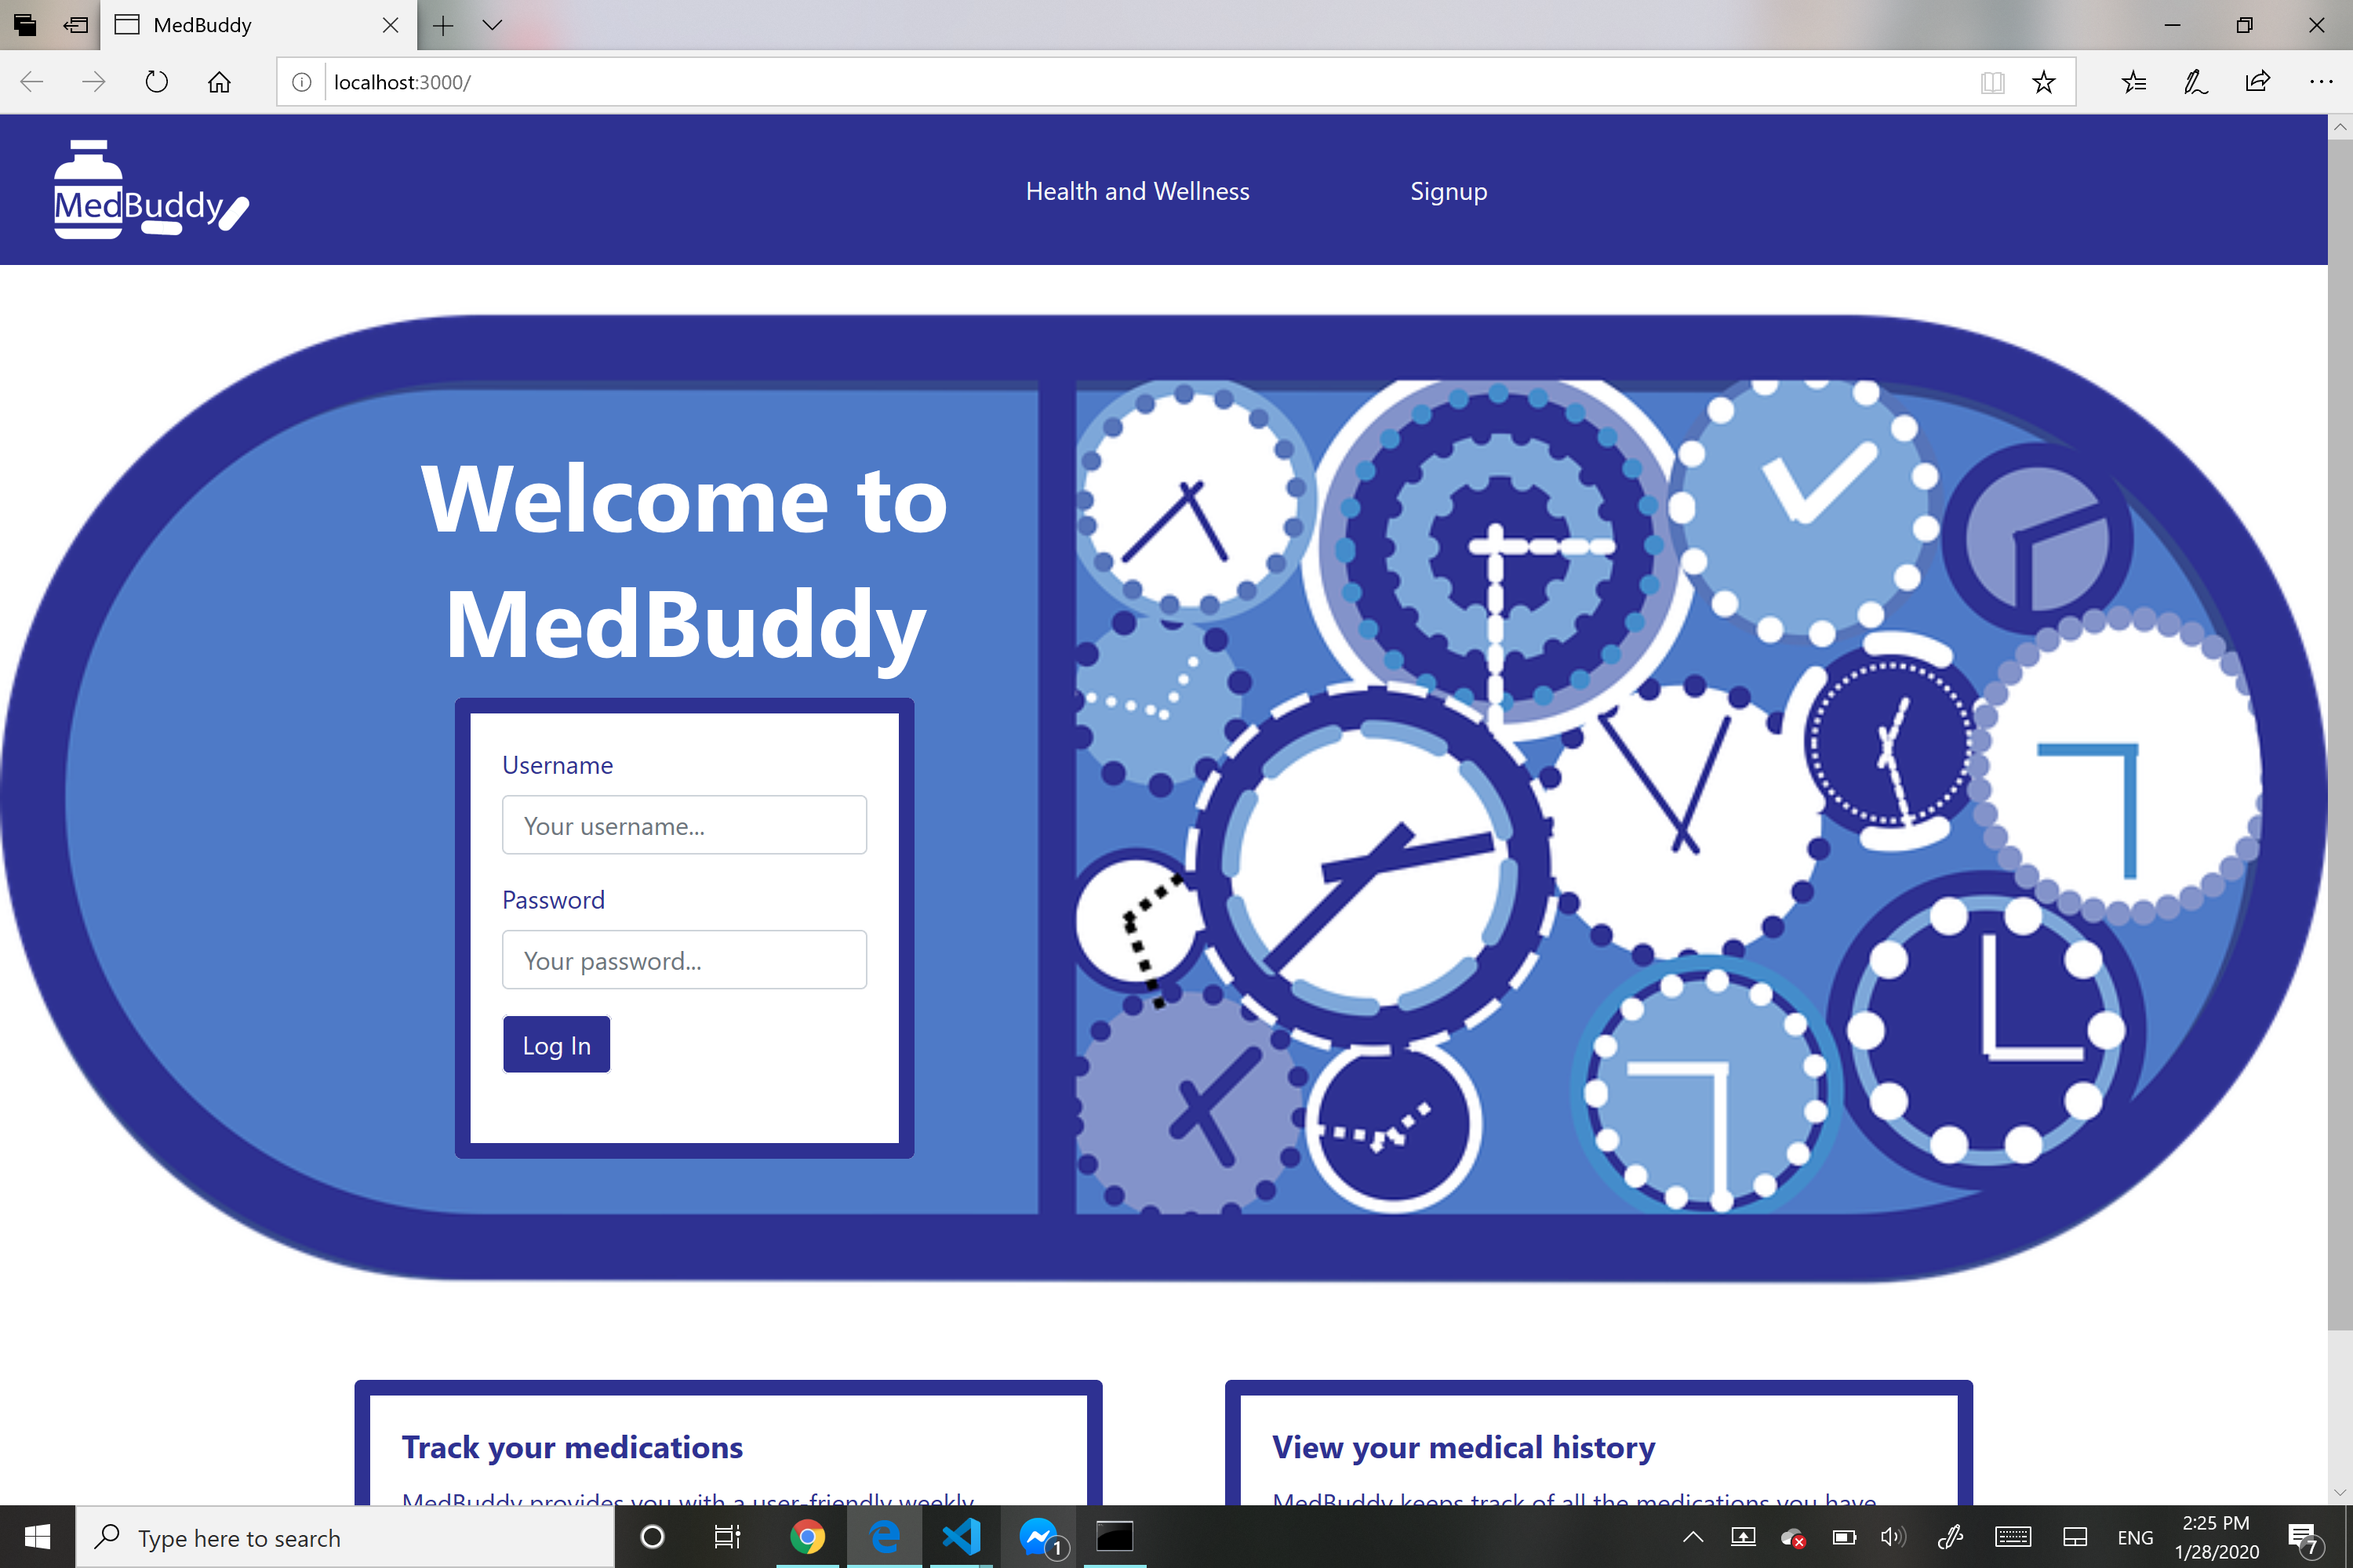
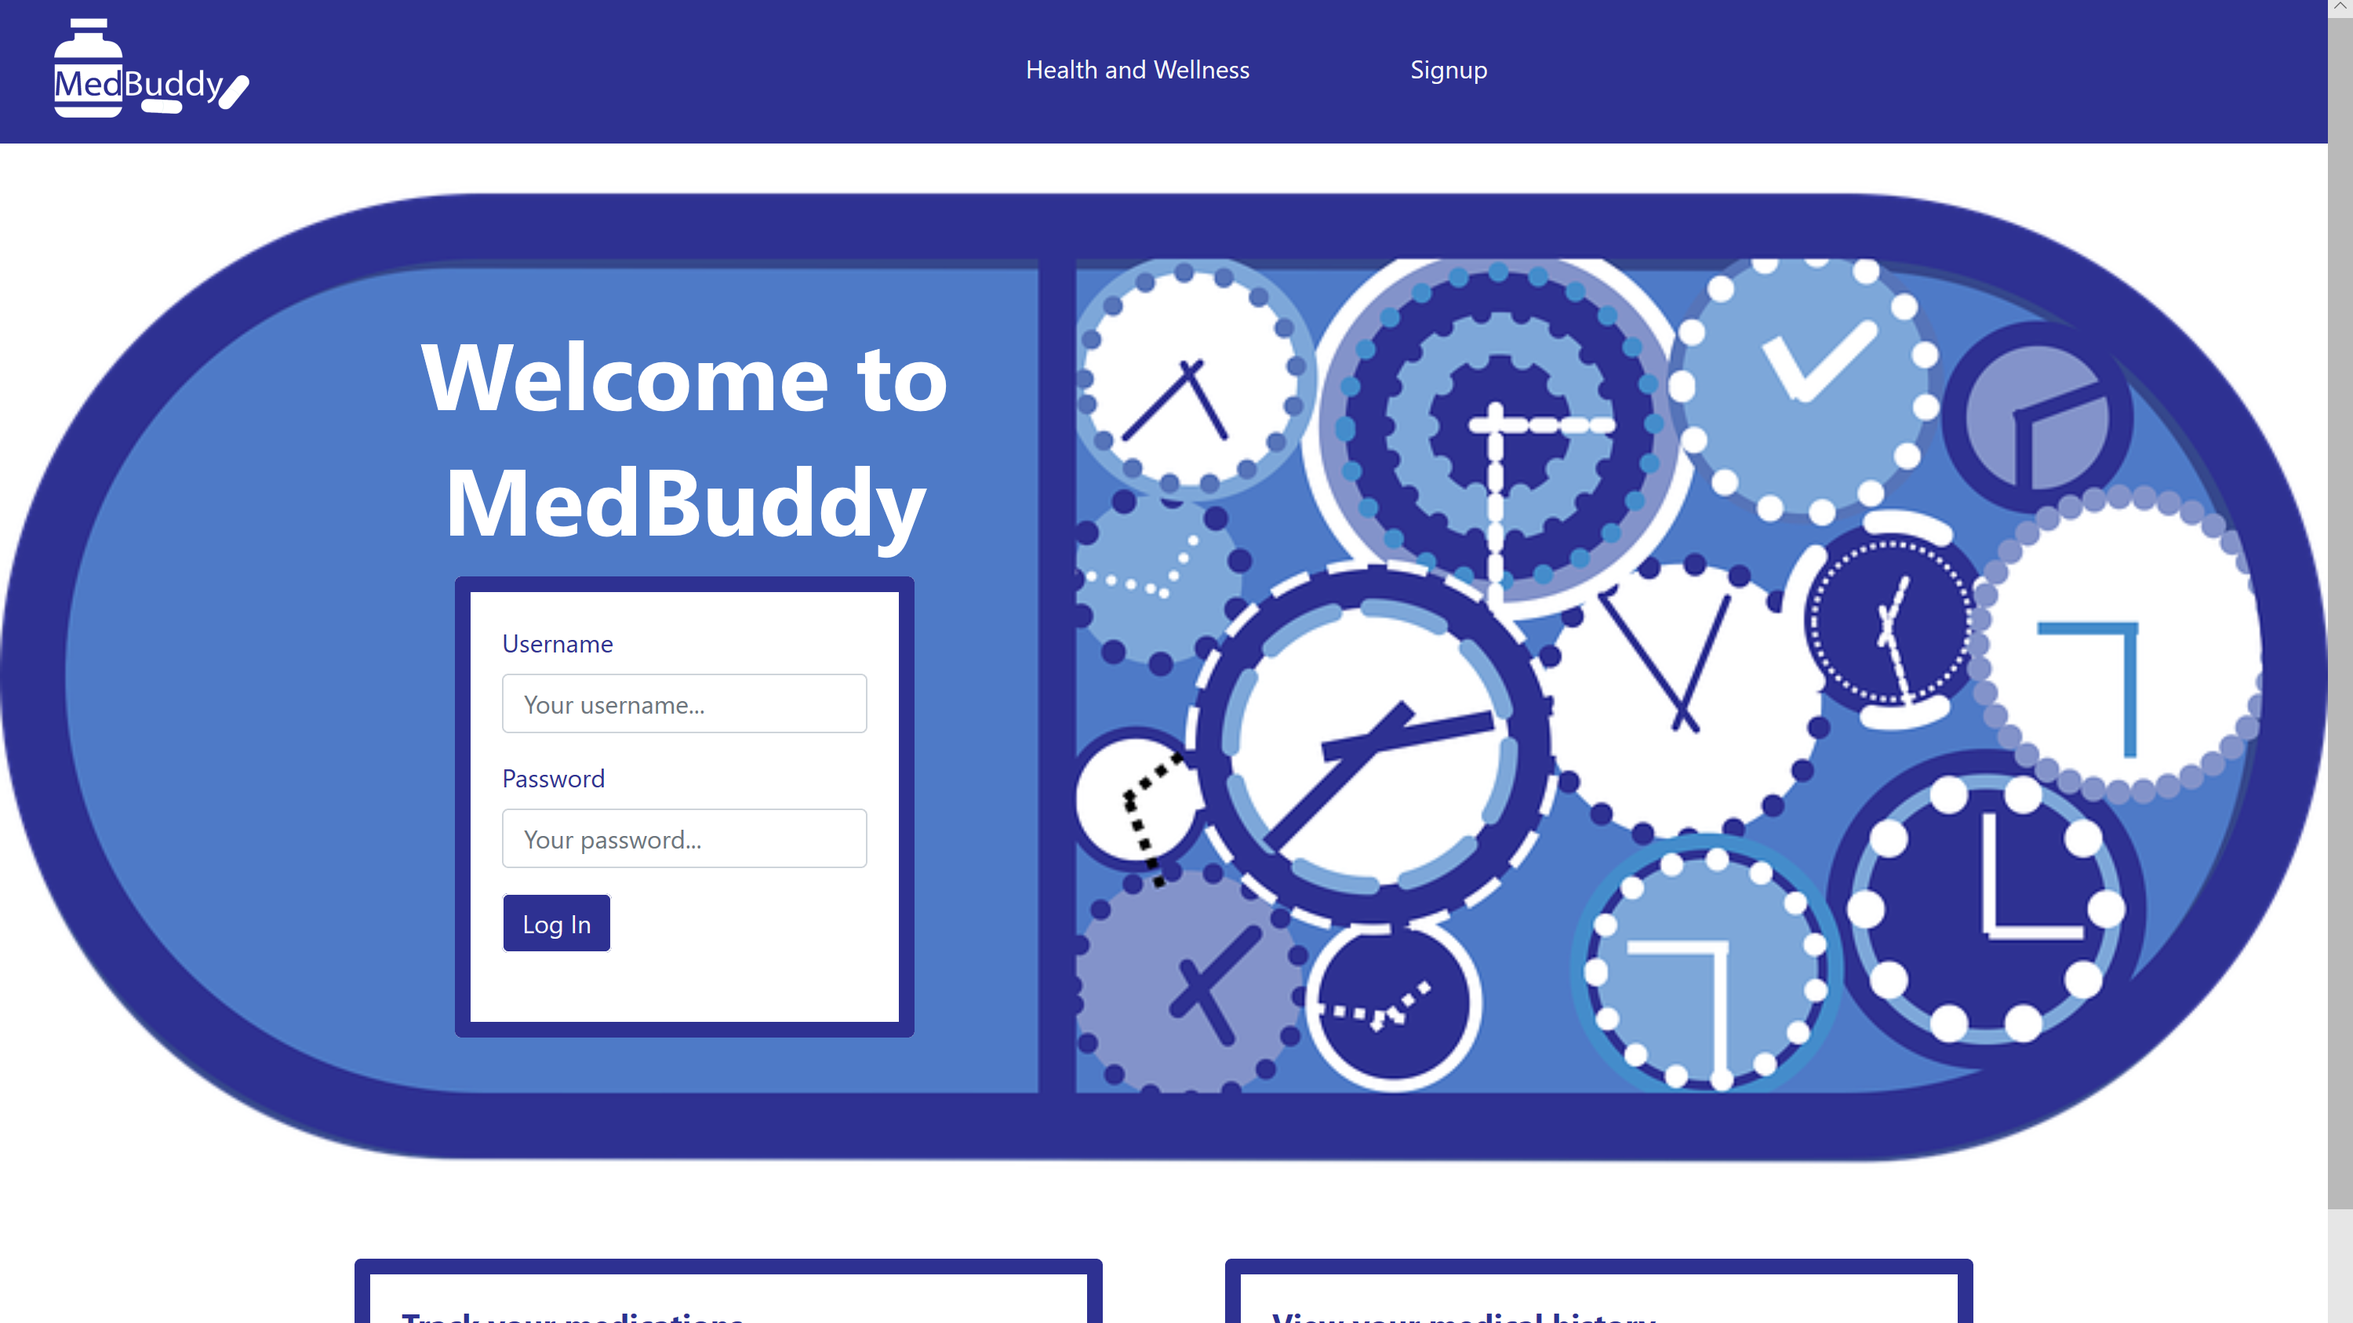
adding medbuddy screenshot cropped

diff --git a/index.html b/index.html
@@ -59,7 +59,7 @@
                             </div>
                              <!---Project #3 -->
                              <div class="card col-lg-3 col-md-5 col-sm-10 mb-4 mr-4" style="width: 15rem;">
-                                <img class="card-img-top" src="" alt="Card image cap">
+                                <img class="card-img-top" src="./images/medbuddy (2).png" alt="Card image cap">
                                 <div class="card-body">
                                     <h5 class="card-title text-dark">Project #3: MedBuddy</h5>
                                     <p class="card-text text-dark"> MedBuddy is a medication manager app that allows users to input when they need to take their medications and provides them with a user-friendly dashboard to view the data they have inputted.</p>
